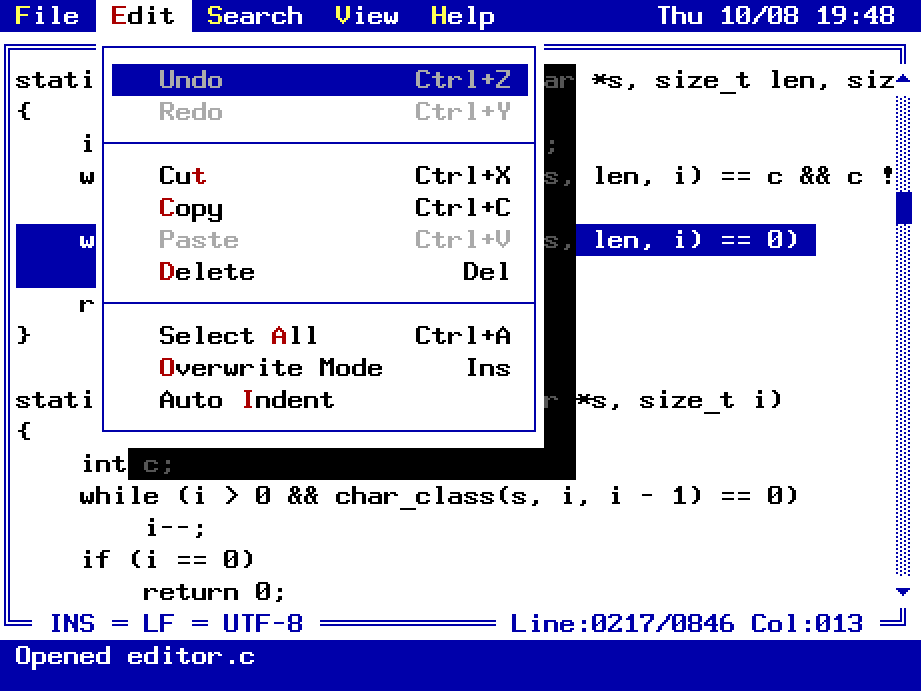
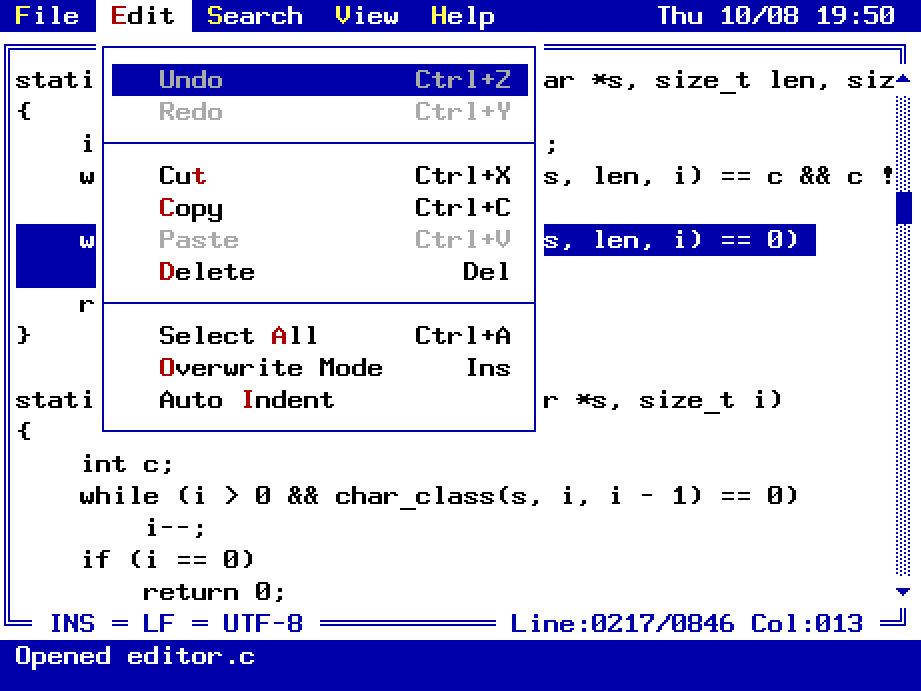
Remove the drop shadow from open menus
Menus now sit flat on the text behind them; dialogs keep their shadow.
The README screenshots are retaken to match.

Changed region(s): [[0.1216, 0.0912, 0.6384, 0.699], [0.9425, 0.0, 0.9729, 0.0304]]

diff --git a/src/menu.c b/src/menu.c
@@ -189,8 +189,6 @@ void menu_draw(const MenuBar *m, Screen *s, const Theme *t, CmdState state,
                      !(st & CMD_ENABLED) ? t->disabled : sel ? t->sel_hot : t->hot, bg);
         screen_puts(s, x + w - 2 - label_width(it->keys), row, it->keys, fg, bg, 20);
     }
-    screen_shadow(s, x + w, y + 1, 2, h);
-    screen_shadow(s, x + 2, y + h, w - 2, 1);
 }
 
 int menu_key(MenuBar *m, SDL_Keycode sym)
